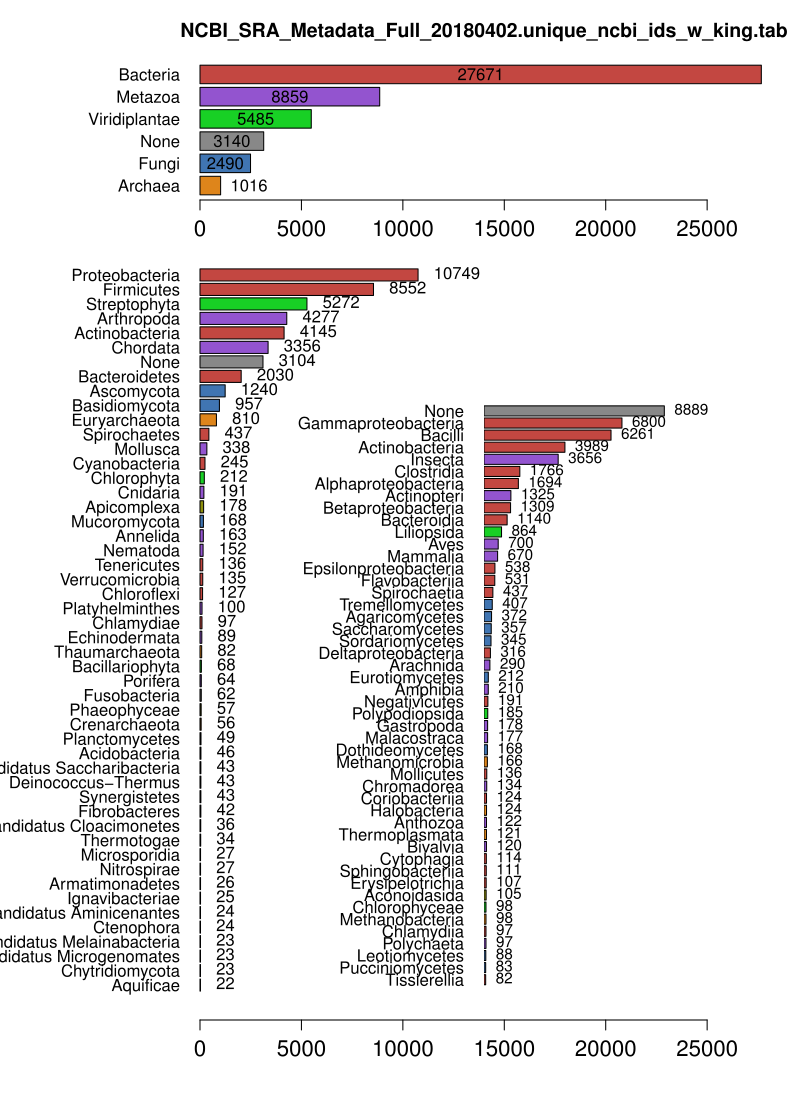
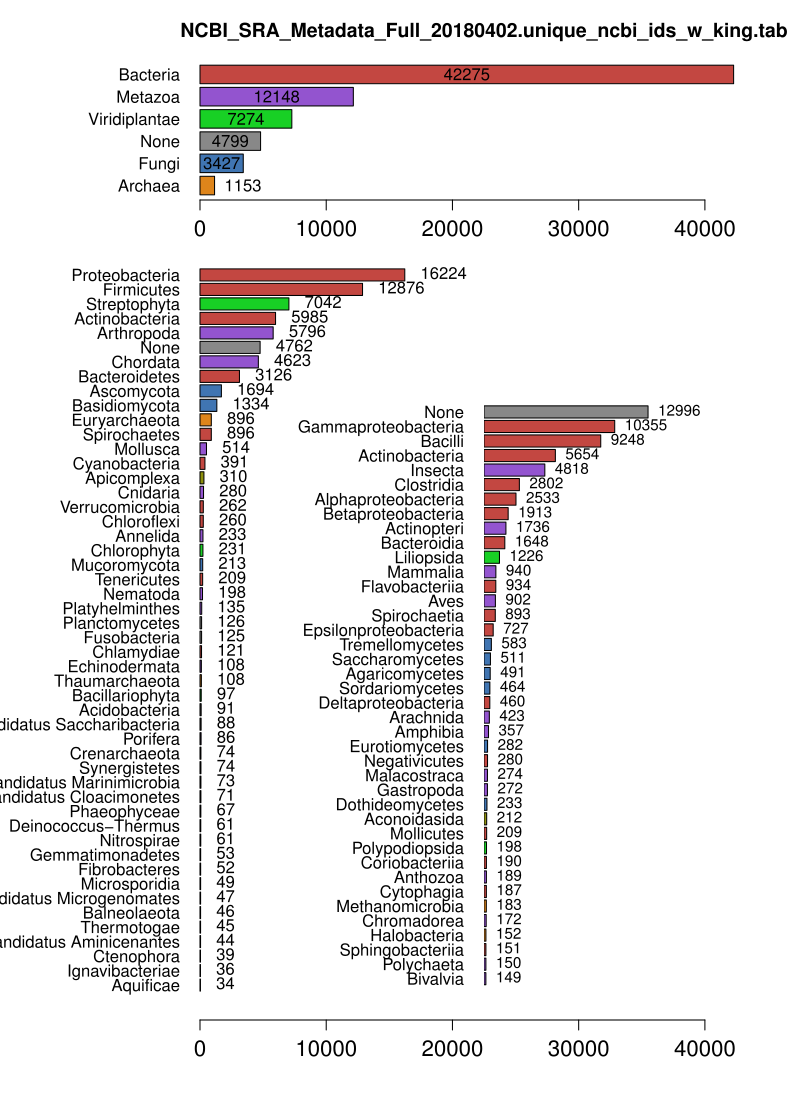
update figure

diff --git a/taxonomy_database/README.md b/taxonomy_database/README.md
@@ -19,7 +19,7 @@ NCBI Taxonomy files can be downloaded at from the `taxdump.tar.gz` file at:
 `ftp://ftp.ncbi.nlm.nih.gov/pub/taxonomy/`
 
 ## for all of NCBI SRA ##
-At the time of writing (May 2018) [NCBI SRA](https://trace.ncbi.nlm.nih.gov/Traces/sra/sra.cgi) contains over 3.5M entries, accounting for 6 petabases. Chordates (so probably human samples, or mouse) account for almost 1 million of those, and "uncategorized" samples (probably environmental metagenomic samples) account for over 600k.
+At the time of writing (May 2018) [NCBI SRA](https://trace.ncbi.nlm.nih.gov/Traces/sra/sra.cgi) contains over 3.5M entries, accounting for 6 petabases. Chordates (so probably human samples, or mouse) account for over 1.3 million of those, and "uncategorized" samples (probably environmental metagenomic samples) account for almost 1 million.
 
 ![NCBI_SRA_Metadata_Full_20180402.ncbi_ids_w_kingdom.png](https://github.com/wrf/misc-analyses/blob/master/taxonomy_database/NCBI_SRA_Metadata_Full_20180402.ncbi_ids_w_kingdom.png)
 
@@ -47,7 +47,7 @@ As the above command had counted each sample separately, species can instead be 
 
 `parse_ncbi_taxonomy.py -i NCBI_SRA_Metadata_Full_20180402.ncbi_ids.txt -n ~/db/taxonomy/names.dmp -o ~/db/taxonomy/nodes.dmp ~/db/taxonomy/merged.dmp --numbers --header --unique > NCBI_SRA_Metadata_Full_20180402.unique_ncbi_ids_w_king.tab`
 
-The Rscript then creates the graph:
+The Rscript then creates the graph, displaying a similar pattern to the number of samples.
 
 `Rscript taxon_barplot.R NCBI_SRA_Metadata_Full_20180402.unique_ncbi_ids_w_king.tab`
 
